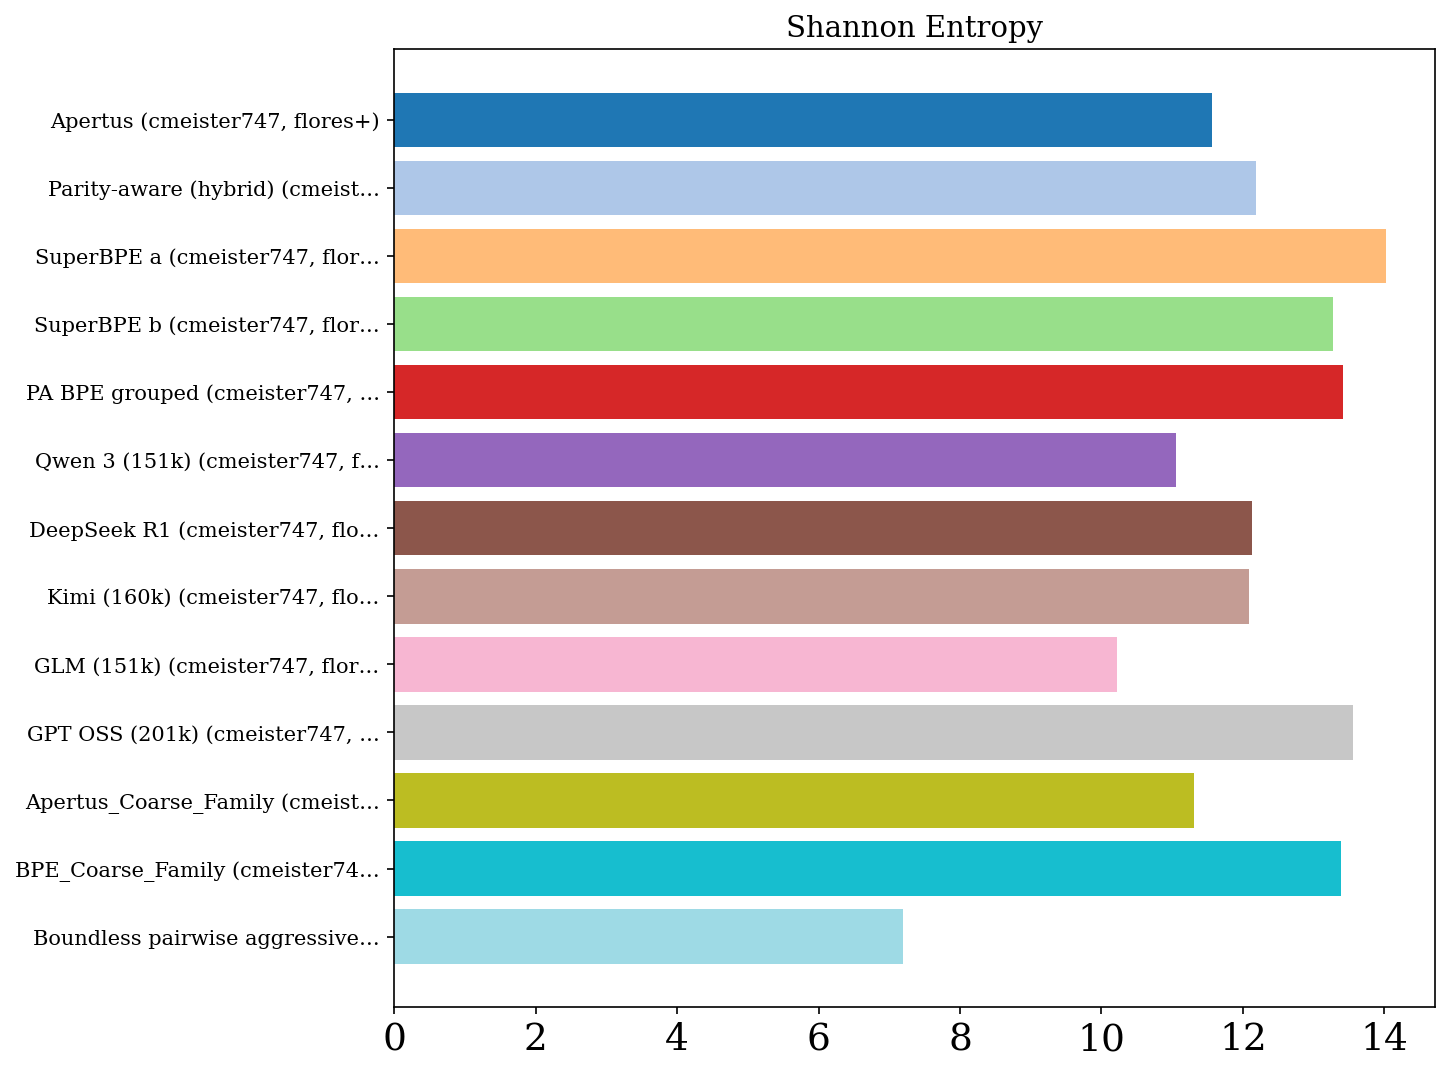
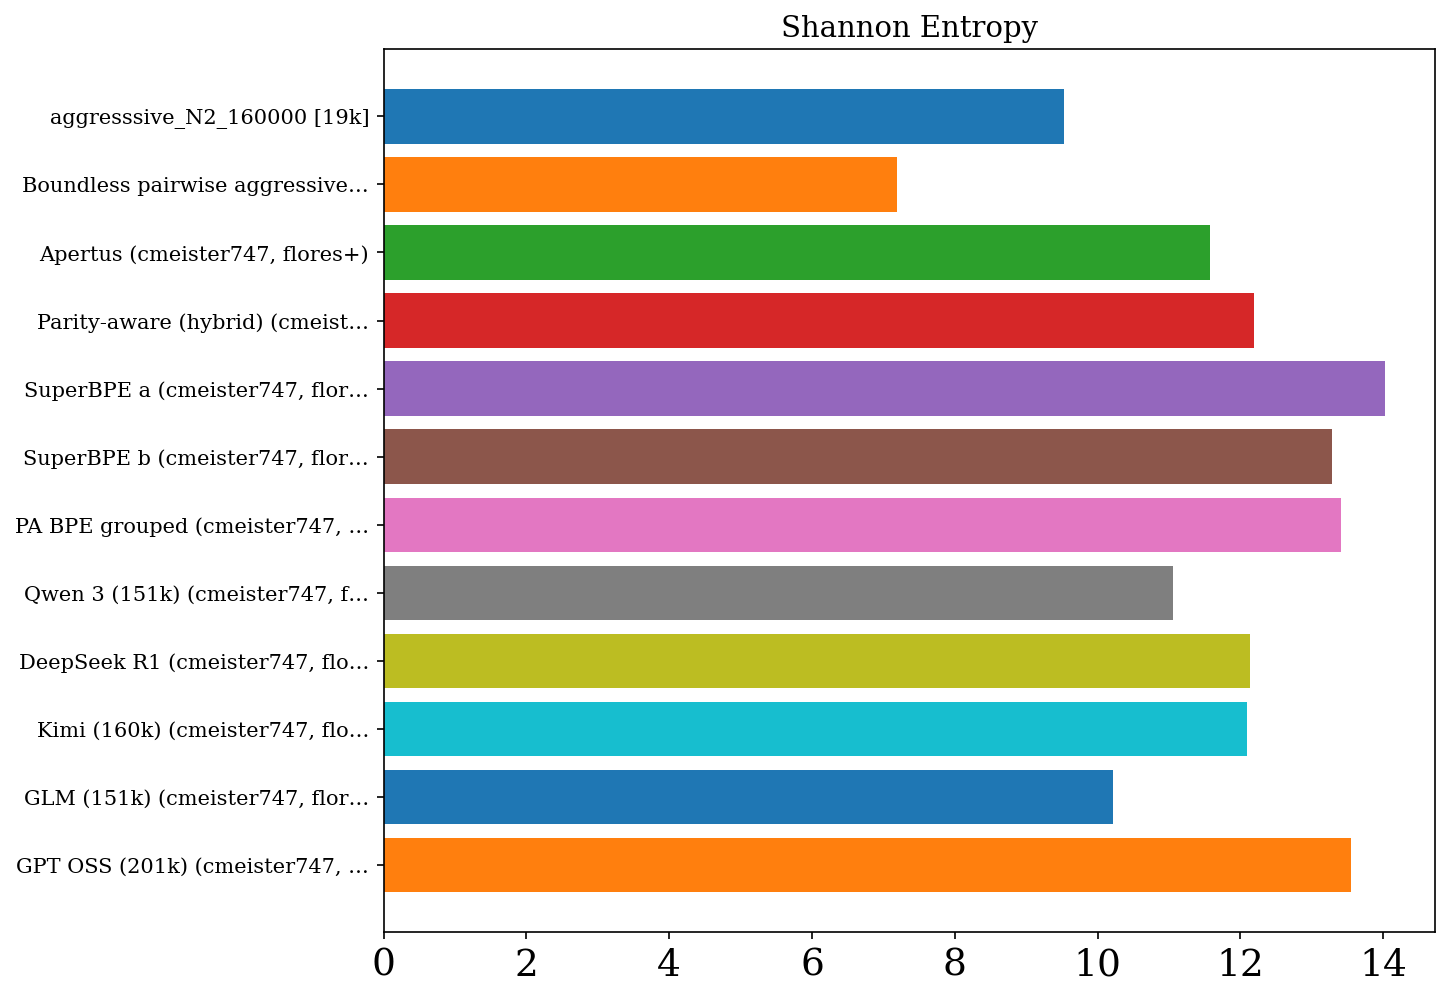
Update RESULTS_flores+_lines.md (2026-03-06 09:38:57)

diff --git a/RESULTS_flores+_lines.md b/RESULTS_flores+_lines.md
@@ -1,30 +1,43 @@
 # Tokenizer Evaluation Results
 
-_Last updated: 2026-03-03 14:47:01_
+_Last updated: 2026-03-06 09:37:28_
 
-| Tokenizer | Vocab Size | Fertility ↓ | Compression Rate ↑ | Vocab Util. ↑ | Avg Token Rank ↓ | Gini ↓ | 3-Digit Align. F1 ↑ | Op. Isolation ↑ | AST Align. ↑ | Ident. Frag. ↓ | Depth Corr. ↑ | Pat. Stability ↑ | Bound. Cross ↓ | Char Split ↓ | Languages | Dataset | User | Date |
-| --- | --- | --- | --- | --- | --- | --- | --- | --- | --- | --- | --- | --- | --- | --- | --- | --- | --- | --- |
-| Classical (meistecl, flores+) | 128,004 | 59.463 | 0.022 | 0.682 | 4663.5 | 0.246 | 0.789 | 0.294 | 0.148 | 0.055 | -0.049 | 0.991 | 0.0574 | 0.1337 | 92 | flores+ | meistecl | 2026-03-03 |
-| Parity-aware (meistecl, flores+) | 128,004 | 59.101 | 0.022 | **0.691** | 4456.6 | 0.220 | 0.736 | 0.294 | 0.188 | 0.082 | -0.049 | 0.991 | 0.0440 | 0.1106 | 92 | flores+ | meistecl | 2026-03-03 |
-| Parity-aware (hybrid) (meistecl, flores+) | 128,004 | 58.267 | 0.022 | 0.691 | 4640.4 | 0.223 | 0.771 | 0.294 | 0.160 | 0.066 | -0.049 | 0.991 | 0.0450 | 0.1107 | 92 | flores+ | meistecl | 2026-03-03 |
-| Gemma 3 (meistecl, flores+) | 262,145 | **46.221** | 0.026 | 0.447 | 9461.6 | 0.126 | 0.451 | 0.509 | 0.088 | 0.030 | -0.091 | 0.965 | 0.0293 | 0.0110 | 92 | flores+ | meistecl | 2026-03-03 |
-| Qwen 3 (meistecl, flores+) | 151,669 | 75.897 | 0.020 | 0.324 | 1699.6 | 0.312 | 0.451 | 0.966 | 0.605 | 0.383 | -0.037 | 0.994 | 0.0561 | 0.2422 | 92 | flores+ | meistecl | 2026-03-03 |
-| Qwen 3.5 (meistecl, flores+) | 248,077 | 53.347 | 0.024 | 0.387 | 5435.7 | 0.204 | 0.451 | 0.966 | **0.680** | 0.381 | -0.037 | 0.994 | 0.0096 | 0.0352 | 92 | flores+ | meistecl | 2026-03-03 |
-| GPT-4 (meistecl, flores+) | 100,261 | 90.200 | 0.018 | 0.302 | 917.5 | 0.362 | 0.793 | 0.966 | 0.605 | 0.383 | -0.037 | 0.994 | 0.0517 | 0.4671 | 92 | flores+ | meistecl | 2026-03-03 |
-| GPT-4o (meistecl, flores+) | 200,000 | 47.045 | **0.027** | 0.522 | 9529.8 | 0.169 | 0.793 | 0.966 | 0.609 | 0.401 | -0.037 | 0.994 | 0.0078 | 0.0475 | 92 | flores+ | meistecl | 2026-03-03 |
-| Mistral-Nemo (meistecl, flores+) | 131,072 | 64.763 | 0.023 | 0.564 | 4318.1 | 0.308 | 0.451 | 0.496 | 0.060 | 0.037 | -0.037 | 0.994 | 0.0171 | 0.1525 | 92 | flores+ | meistecl | 2026-03-03 |
-| DeepSeek R1 (meistecl, flores+) | 128,815 | 62.674 | 0.021 | 0.418 | 2864.6 | 0.229 | 0.793 | 0.496 | 0.000 | --- | -0.037 | 0.994 | 0.0509 | 0.0103 | 92 | flores+ | meistecl | 2026-03-03 |
-| Cohere Command R (meistecl, flores+) | 255,029 | 75.168 | 0.022 | 0.433 | 3397.6 | 0.371 | 0.451 | 0.509 | 0.032 | 0.016 | -0.037 | 0.994 | 0.0474 | 0.0008 | 92 | flores+ | meistecl | 2026-03-03 |
-| Kimi (meistecl, flores+) | 163,840 | 62.820 | 0.020 | 0.244 | 2283.0 | 0.199 | 0.793 | 0.966 | 0.609 | 0.408 | -0.037 | 0.994 | 0.0498 | 0.1139 | 92 | flores+ | meistecl | 2026-03-03 |
-| GLM (meistecl, flores+) | 151,343 | 86.320 | 0.019 | 0.364 | 1631.6 | 0.372 | 0.644 | 0.000 | 0.001 | **0.000** | **0.000** | **1.000** | **0.0000** | **0.0000** | 92 | flores+ | meistecl | 2026-03-03 |
-| GPT OSS (meistecl, flores+) | 200,019 | 47.045 | 0.027 | 0.521 | 9529.8 | 0.169 | 0.793 | 0.966 | 0.609 | 0.401 | -0.037 | 0.994 | 0.0078 | 0.0475 | 92 | flores+ | meistecl | 2026-03-03 |
-| Apertus (meistecl, flores+) | 131,072 | 64.763 | 0.023 | 0.564 | 4318.1 | 0.308 | 0.451 | 0.496 | 0.060 | 0.037 | -0.037 | 0.994 | 0.0171 | 0.1525 | 92 | flores+ | meistecl | 2026-03-03 |
-| SuperBPE default regex (meistecl, flores+) | 130,000 | 46.224 | 0.025 | 0.553 | 9333.4 | 0.106 | 0.793 | 0.407 | 0.225 | 0.028 | -0.037 | 0.994 | 0.0206 | 0.0249 | 92 | flores+ | meistecl | 2026-03-03 |
-| DeepSeek V3 (meistecl, flores+) | 128,815 | 62.674 | 0.021 | 0.418 | 2864.6 | 0.229 | 0.793 | 0.496 | 0.000 | --- | -0.037 | 0.994 | 0.0509 | 0.0103 | 92 | flores+ | meistecl | 2026-03-03 |
-| SuperBPE Apertus regex (meistecl, flores+) | 130,000 | 52.158 | 0.024 | 0.593 | 7591.0 | 0.192 | 0.793 | **0.992** | 0.259 | 0.029 | -0.037 | 0.994 | 0.0085 | 0.0139 | 92 | flores+ | meistecl | 2026-03-03 |
-| SuperBPE qwen regex (meistecl, flores+) | 130,000 | 48.526 | 0.024 | 0.572 | 9524.6 | 0.097 | 0.451 | 0.407 | 0.284 | 0.024 | -0.031 | 0.995 | 0.0292 | 0.0332 | 92 | flores+ | meistecl | 2026-03-03 |
-| SuperBPE math (meistecl, flores+) | 130,000 | 52.985 | 0.024 | 0.543 | 6733.8 | 0.190 | 0.793 | 0.992 | 0.264 | 0.028 | -0.037 | 0.994 | 0.0092 | 0.0126 | 92 | flores+ | meistecl | 2026-03-03 |
-| SuperBPE math new reg (meistecl, flores+) | 130,000 | 46.554 | 0.025 | 0.539 | 8783.4 | 0.112 | **0.891** | 0.263 | 0.230 | 0.027 | -0.037 | 0.994 | 0.0218 | 0.0242 | 92 | flores+ | meistecl | 2026-03-03 |
-| PA BPE grouped (meistecl, flores+) | 120,260 | 47.187 | 0.024 | 0.632 | 8240.1 | **0.064** | 0.722 | 0.294 | 0.159 | 0.067 | -0.049 | 0.991 | 0.0173 | 0.0205 | 92 | flores+ | meistecl | 2026-03-03 |
-| PA BPE grouped math (meistecl, flores+) | 128,260 | 47.533 | 0.024 | 0.606 | 8064.2 | 0.074 | 0.451 | 0.496 | 0.094 | 0.050 | -0.037 | 0.994 | 0.0142 | 0.0242 | 92 | flores+ | meistecl | 2026-03-03 |
-| Boundless pairwise aggressive n2 (dkletz, flores+) | 5,033 | 88.335 | 0.013 | 0.644 | **108.7** | 0.082 | --- | 0.047 | --- | --- | --- | --- | --- | --- | 92 | flores+ | dkletz | 2026-02-22 |
+| Tokenizer | Vocab Size | Fertility ↓ | Compression Rate ↑ | Vocab Util. ↑ | Avg Token Rank ↓ | Gini ↓ | 3-Digit Align. F1 ↑ | Op. Isolation ↑ | UTF-8 Integ. ↑ | Char Split ↓ | Languages | TTR | Shannon Entropy | Dataset | User | Date | AST Align. ↑ | Ident. Frag. ↓ | Depth Corr. ↑ | Pat. Stability ↑ | Bound. Cross |
+| --- | --- | --- | --- | --- | --- | --- | --- | --- | --- | --- | --- | --- | --- | --- | --- | --- | --- | --- | --- | --- | --- |
+| aggresssive_N2_64K (vkanjira, flores+) | 60,682 | 67.253 | 0.018 | 0.354 | 893.1 | 0.129 | 0.681 | 0.077 | **1.000** | 0.0049 | 92 | --- | --- | flores+ | vkanjira | 2026-03-06 | --- | --- | --- | --- | --- |
+| aggresssive_N2_32K (vkanjira, flores+) | 60,682 | 67.253 | 0.018 | 0.354 | 893.1 | 0.129 | 0.681 | 0.077 | 1.000 | 0.0049 | 92 | --- | --- | flores+ | vkanjira | 2026-03-06 | --- | --- | --- | --- | --- |
+| aggresssive_N2_160000 (vkanjira, flores+) | 19,051 | 62.586 | 0.019 | 0.295 | 382.8 | 0.120 | 0.635 | 0.382 | --- | --- | 13 | 0.0069 | 9.53 | flores+ | vkanjira | 2026-02-22 | --- | --- | --- | --- | --- |
+| Boundless pairwise aggressive n2 (dkletz, flores+) | 5,033 | 88.335 | 0.013 | 0.644 | **108.7** | 0.082 | --- | 0.047 | --- | --- | 92 | 0.0004 | 7.19 | flores+ | dkletz | 2026-02-22 | --- | --- | --- | --- | --- |
+| Apertus (cmeister747, flores+) | 131,072 | 64.763 | 0.023 | 0.564 | 4318.1 | 0.308 | 0.363 | 0.185 | --- | --- | 92 | 0.0124 | 11.57 | flores+ | cmeister747 | 2026-02-22 | --- | --- | --- | --- | --- |
+| Parity-aware (hybrid) (cmeister747, flores+) | 128,004 | 58.267 | 0.022 | **0.691** | 4640.4 | 0.223 | 0.741 | 0.224 | --- | --- | 92 | 0.0166 | 12.19 | flores+ | cmeister747 | 2026-02-22 | --- | --- | --- | --- | --- |
+| SuperBPE a (cmeister747, flores+) | 130,000 | 46.224 | 0.025 | 0.553 | 9333.4 | 0.106 | 0.767 | 0.339 | --- | --- | 92 | 0.0170 | 14.02 | flores+ | cmeister747 | 2026-02-22 | --- | --- | --- | --- | --- |
+| SuperBPE b (cmeister747, flores+) | 130,000 | 52.158 | 0.024 | 0.593 | 7591.0 | 0.192 | 0.767 | 0.982 | --- | --- | 92 | 0.0161 | 13.28 | flores+ | cmeister747 | 2026-02-22 | --- | --- | --- | --- | --- |
+| PA BPE grouped (cmeister747, flores+) | 120,260 | 47.187 | 0.024 | 0.632 | 8240.1 | **0.064** | 0.700 | 0.224 | --- | --- | 92 | 0.0176 | 13.41 | flores+ | cmeister747 | 2026-02-22 | --- | --- | --- | --- | --- |
+| Qwen 3 (151k) (cmeister747, flores+) | 151,669 | 75.897 | 0.020 | 0.324 | 1699.6 | 0.312 | 0.363 | 0.497 | --- | --- | 92 | 0.0071 | 11.05 | flores+ | cmeister747 | 2026-02-22 | --- | --- | --- | --- | --- |
+| DeepSeek R1 (cmeister747, flores+) | 128,815 | 61.674 | 0.021 | 0.418 | 2910.0 | 0.232 | 0.767 | 0.481 | --- | --- | 92 | 0.0095 | 12.13 | flores+ | cmeister747 | 2026-02-22 | --- | --- | --- | --- | --- |
+| Kimi (160k) (cmeister747, flores+) | 163,840 | 62.820 | 0.020 | 0.244 | 2283.0 | 0.199 | 0.767 | 0.466 | --- | --- | 92 | 0.0069 | 12.09 | flores+ | cmeister747 | 2026-02-22 | --- | --- | --- | --- | --- |
+| GLM (151k) (cmeister747, flores+) | 151,343 | 86.320 | 0.019 | 0.364 | 1631.6 | 0.372 | 0.461 | 0.000 | --- | --- | 92 | 0.0070 | 10.22 | flores+ | cmeister747 | 2026-02-22 | --- | --- | --- | --- | --- |
+| GPT OSS (201k) (cmeister747, flores+) | 200,019 | 47.045 | **0.027** | 0.521 | 9529.8 | 0.169 | 0.767 | 0.371 | --- | --- | 92 | 0.0242 | 13.55 | flores+ | cmeister747 | 2026-02-22 | --- | --- | --- | --- | --- |
+| Classical (meistecl, flores+) | 128,004 | 59.463 | 0.022 | 0.682 | 4663.5 | 0.246 | 0.789 | 0.294 | --- | 0.1337 | 92 | --- | --- | flores+ | meistecl | 2026-03-03 | 0.148 | 0.055 | -0.049 | 0.991 | 0.0574 |
+| Parity-aware (meistecl, flores+) | 128,004 | 59.101 | 0.022 | 0.691 | 4456.6 | 0.220 | 0.736 | 0.294 | --- | 0.1106 | 92 | --- | --- | flores+ | meistecl | 2026-03-03 | 0.188 | 0.082 | -0.049 | 0.991 | 0.0440 |
+| Parity-aware (hybrid) (meistecl, flores+) | 128,004 | 58.267 | 0.022 | 0.691 | 4640.4 | 0.223 | 0.771 | 0.294 | --- | 0.1107 | 92 | --- | --- | flores+ | meistecl | 2026-03-03 | 0.160 | 0.066 | -0.049 | 0.991 | 0.0450 |
+| Gemma 3 (meistecl, flores+) | 262,145 | **46.221** | 0.026 | 0.447 | 9461.6 | 0.126 | 0.451 | 0.509 | --- | 0.0110 | 92 | --- | --- | flores+ | meistecl | 2026-03-03 | 0.088 | 0.030 | -0.091 | 0.965 | 0.0293 |
+| Qwen 3 (meistecl, flores+) | 151,669 | 75.897 | 0.020 | 0.324 | 1699.6 | 0.312 | 0.451 | 0.966 | --- | 0.2422 | 92 | --- | --- | flores+ | meistecl | 2026-03-03 | 0.605 | 0.383 | -0.037 | 0.994 | 0.0561 |
+| Qwen 3.5 (meistecl, flores+) | 248,077 | 53.347 | 0.024 | 0.387 | 5435.7 | 0.204 | 0.451 | 0.966 | --- | 0.0352 | 92 | --- | --- | flores+ | meistecl | 2026-03-03 | **0.680** | 0.381 | -0.037 | 0.994 | 0.0096 |
+| GPT-4 (meistecl, flores+) | 100,261 | 90.200 | 0.018 | 0.302 | 917.5 | 0.362 | 0.793 | 0.966 | --- | 0.4671 | 92 | --- | --- | flores+ | meistecl | 2026-03-03 | 0.605 | 0.383 | -0.037 | 0.994 | 0.0517 |
+| GPT-4o (meistecl, flores+) | 200,000 | 47.045 | 0.027 | 0.522 | 9529.8 | 0.169 | 0.793 | 0.966 | --- | 0.0475 | 92 | --- | --- | flores+ | meistecl | 2026-03-03 | 0.609 | 0.401 | -0.037 | 0.994 | 0.0078 |
+| Mistral-Nemo (meistecl, flores+) | 131,072 | 64.763 | 0.023 | 0.564 | 4318.1 | 0.308 | 0.451 | 0.496 | --- | 0.1525 | 92 | --- | --- | flores+ | meistecl | 2026-03-03 | 0.060 | 0.037 | -0.037 | 0.994 | 0.0171 |
+| DeepSeek R1 (meistecl, flores+) | 128,815 | 62.674 | 0.021 | 0.418 | 2864.6 | 0.229 | 0.793 | 0.496 | --- | 0.0103 | 92 | --- | --- | flores+ | meistecl | 2026-03-03 | 0.000 | --- | -0.037 | 0.994 | 0.0509 |
+| Cohere Command R (meistecl, flores+) | 255,029 | 75.168 | 0.022 | 0.433 | 3397.6 | 0.371 | 0.451 | 0.509 | --- | 0.0008 | 92 | --- | --- | flores+ | meistecl | 2026-03-03 | 0.032 | 0.016 | -0.037 | 0.994 | 0.0474 |
+| Kimi (meistecl, flores+) | 163,840 | 62.820 | 0.020 | 0.244 | 2283.0 | 0.199 | 0.793 | 0.966 | --- | 0.1139 | 92 | --- | --- | flores+ | meistecl | 2026-03-03 | 0.609 | 0.408 | -0.037 | 0.994 | 0.0498 |
+| GLM (meistecl, flores+) | 151,343 | 86.320 | 0.019 | 0.364 | 1631.6 | 0.372 | 0.644 | 0.000 | --- | **0.0000** | 92 | --- | --- | flores+ | meistecl | 2026-03-03 | 0.001 | **0.000** | **0.000** | **1.000** | 0.0000 |
+| GPT OSS (meistecl, flores+) | 200,019 | 47.045 | 0.027 | 0.521 | 9529.8 | 0.169 | 0.793 | 0.966 | --- | 0.0475 | 92 | --- | --- | flores+ | meistecl | 2026-03-03 | 0.609 | 0.401 | -0.037 | 0.994 | 0.0078 |
+| Apertus (meistecl, flores+) | 131,072 | 64.763 | 0.023 | 0.564 | 4318.1 | 0.308 | 0.451 | 0.496 | --- | 0.1525 | 92 | --- | --- | flores+ | meistecl | 2026-03-03 | 0.060 | 0.037 | -0.037 | 0.994 | 0.0171 |
+| SuperBPE default regex (meistecl, flores+) | 130,000 | 46.224 | 0.025 | 0.553 | 9333.4 | 0.106 | 0.793 | 0.407 | --- | 0.0249 | 92 | --- | --- | flores+ | meistecl | 2026-03-03 | 0.225 | 0.028 | -0.037 | 0.994 | 0.0206 |
+| DeepSeek V3 (meistecl, flores+) | 128,815 | 62.674 | 0.021 | 0.418 | 2864.6 | 0.229 | 0.793 | 0.496 | --- | 0.0103 | 92 | --- | --- | flores+ | meistecl | 2026-03-03 | 0.000 | --- | -0.037 | 0.994 | 0.0509 |
+| SuperBPE Apertus regex (meistecl, flores+) | 130,000 | 52.158 | 0.024 | 0.593 | 7591.0 | 0.192 | 0.793 | **0.992** | --- | 0.0139 | 92 | --- | --- | flores+ | meistecl | 2026-03-03 | 0.259 | 0.029 | -0.037 | 0.994 | 0.0085 |
+| SuperBPE qwen regex (meistecl, flores+) | 130,000 | 48.526 | 0.024 | 0.572 | 9524.6 | 0.097 | 0.451 | 0.407 | --- | 0.0332 | 92 | --- | --- | flores+ | meistecl | 2026-03-03 | 0.284 | 0.024 | -0.031 | 0.995 | 0.0292 |
+| SuperBPE math (meistecl, flores+) | 130,000 | 52.985 | 0.024 | 0.543 | 6733.8 | 0.190 | 0.793 | 0.992 | --- | 0.0126 | 92 | --- | --- | flores+ | meistecl | 2026-03-03 | 0.264 | 0.028 | -0.037 | 0.994 | 0.0092 |
+| SuperBPE math new reg (meistecl, flores+) | 130,000 | 46.554 | 0.025 | 0.539 | 8783.4 | 0.112 | **0.891** | 0.263 | --- | 0.0242 | 92 | --- | --- | flores+ | meistecl | 2026-03-03 | 0.230 | 0.027 | -0.037 | 0.994 | 0.0218 |
+| PA BPE grouped (meistecl, flores+) | 120,260 | 47.187 | 0.024 | 0.632 | 8240.1 | 0.064 | 0.722 | 0.294 | --- | 0.0205 | 92 | --- | --- | flores+ | meistecl | 2026-03-03 | 0.159 | 0.067 | -0.049 | 0.991 | 0.0173 |
+| PA BPE grouped math (meistecl, flores+) | 128,260 | 47.533 | 0.024 | 0.606 | 8064.2 | 0.074 | 0.451 | 0.496 | --- | 0.0242 | 92 | --- | --- | flores+ | meistecl | 2026-03-03 | 0.094 | 0.050 | -0.037 | 0.994 | 0.0142 |
